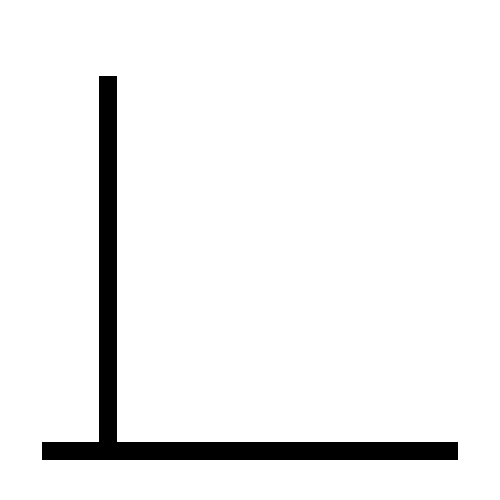
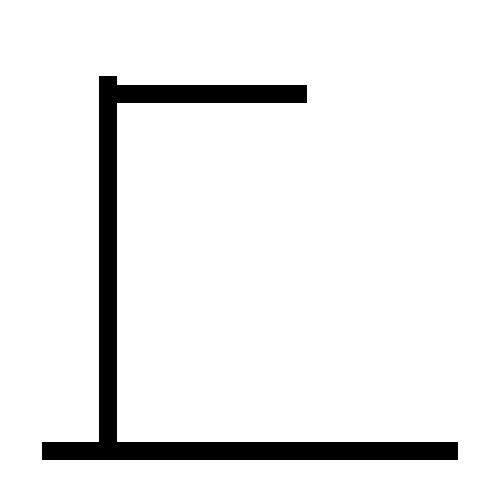
update ult

Changed region(s): [[0.21, 0.15, 0.63, 0.21]]

diff --git a/js/main.js b/js/main.js
@@ -1,6 +1,4 @@
-// crear array 
-// sacar num random y seleccionar palabra random
-// contar num de letras de la palabra y mostrar guiones
+//VARIABLES
 let arrayPalabras;
 let numeroRandom;
 let palabraSeleccionada;
@@ -9,17 +7,19 @@ let imagenesLetras = {}; //no es array, es objeto (para asociar directamente con
 let boton;
 let letraActual;
 let guion;
-let guiones =[];
+let guiones = [];
 let letraCorrecta;
+let errores = 0;
+document.getElementById('contadorErrores').innerHTML = "Nº de errores: 0";
 
+// LLAMADA A FUNCIONES
 crearArrayPalabras();
 seleccionarPalabraRandom(arrayPalabras);
 crearGuionesPalabra(palabraSeleccionada);
 imagenDibujo();
-
-// Llamar a la función para crear los botones al cargar la página
 crearBotones();
 
+//FUNCIONES
 function crearArrayPalabras() {
     arrayPalabras = ['globo', 'mapa', 'viaje', 'mar', 'tierra',
         'avion', 'pais', 'ruta', 'continente', 'oceano',
@@ -49,7 +49,7 @@ function crearGuionesPalabra(palabraSeleccionada) {
     //mostrar tantos guiones como letras
     for (let i = 0; i < longitudPalabra; i++) {
 
-         guion = document.createElement('p');
+        guion = document.createElement('p');
         guion.textContent = "_";
         guion.style.display = 'inline';
         guion.style.padding = '5px';
@@ -57,6 +57,7 @@ function crearGuionesPalabra(palabraSeleccionada) {
 
         // Añadir el elemento de imagen al contenedor en el DOM
         let contenedorGuion = document.getElementById("contenedor-guion");
+        // contenedorGuion.style.height = '120px'; 
         contenedorGuion.appendChild(guion);
         guiones.push(guion);
     }
@@ -65,13 +66,15 @@ function crearGuionesPalabra(palabraSeleccionada) {
 }
 
 function imagenDibujo() {
-    let imagenDibujo = document.createElement("img");
-    imagenDibujo.src = "/images/1.png"
+    // let imagenDibujo = document.createElement("img");
+    let imagenDibujo = document.querySelector("#contenedor-imagen-dibujo img");
+    imagenDibujo.src = `/images/${errores}.png`;
 
     let contenedorImagenDibujo = document.getElementById("contenedor-imagen-dibujo");
     contenedorImagenDibujo.appendChild(imagenDibujo);
 
 }
+
 
 
 function crearBotones() {
@@ -91,14 +94,24 @@ function crearBotones() {
         boton.style.width = "50px";
         boton.style.margin = "5px"; // Agregar margen entre botones
 
-
-      // función externa porque al estar dentro del bucle siempre recordará la última letra creada (Z)
-        boton.addEventListener("click", (function(letraClickeada, botonClickeado) {
-            return function() {
+        // función externa porque al estar dentro del bucle siempre recordará la última letra creada (Z)
+        //USO DE E.TARGET
+        boton.addEventListener("click", (function (letraClickeada, botonClickeado) {
+            return function () {
                 console.log("Letra seleccionada: " + letraClickeada);
                 comprobarLetraDentroPalabra(letraClickeada, botonClickeado);
+
             };
         })(letraActual, boton));
+
+        boton.addEventListener("click", (function (letraClickeada, botonClickeado) {
+            return function () {
+                console.log("Letra seleccionada: " + letraClickeada);
+                comprobarLetraDentroPalabra(letraClickeada, botonClickeado);
+                printErrores(letraCorrecta);
+            };
+        })(letraActual, boton));
+
 
         // Agregar el botón al contenedor
         contenedorBotones.appendChild(boton);
@@ -106,41 +119,82 @@ function crearBotones() {
 
 }
 
-function errores(){
-
-}
-// Funcion para comprobar que si el boton esta en verde que cuando vuelva a clicar que no pase nada
-// Comparar la letra seleccionada con todas las letras de la palabra y decir si esta o No 
 function comprobarLetraDentroPalabra(letraClickeada, botonClickeado) {
     let letras = palabraSeleccionada.split('');
     letraCorrecta = false;
     console.log(letras);
     console.log(letraClickeada.toLowerCase());
+    // letraClickeada.style.marginTop= "16px";
 
     for (let i = 0; i < letras.length; i++) {
         if (letraClickeada.toLowerCase() == letras[i]) {
             letraCorrecta = true;
-             //QUE NO SE COMA EL MARGIN CUANDO SE COMPLETE LA PALABRA
+            //HACER QUE NO SE COMA EL MARGIN CUANDO SE COMPLETE LA PALABRA
 
             guiones[i].style.fontSize = "50px";
             guiones[i].textContent = letraClickeada;
-            
+
         }
     }
     console.log(letraCorrecta);
     cambiarColorBotones(letraCorrecta, botonClickeado);
-   
+    
 }
 
 
 
-function cambiarColorBotones(letraCorrecta, botonClickeado){
+function cambiarColorBotones(letraCorrecta, botonClickeado) {
     botonClickeado.disabled = true;
-    if(letraCorrecta == true){
+    if (letraCorrecta == true) {
         botonClickeado.classList.remove("btn-light");
         botonClickeado.classList.add("btn-success");
-    } 
+    }
 }
+function printErrores(letraCorrecta) {
+    if (!letraCorrecta) {
+        errores++;
+
+        console.log("Nº Errores: " + errores);
+        document.getElementById('contadorErrores').innerHTML = "Nº de errores: " + errores;
+        if (errores >= 10) {
+            //PONER UN POP UP
+            document.getElementById('contadorErrores').innerHTML = "HAS PERDIDO";
+            popupFuncion('perder');
+            errores = 9;
+
+        }
+        imagenDibujo();
+    }
+}
+
+
+function popupFuncion(resultado) {
+    //juegoEnCurso = false;
+
+    const popup = document.getElementById('popup');
+    popup.style.display = 'block';
+
+    const popupContent = document.getElementById('popupContent');
+
+    if (resultado === 'ganar') {
+        popupContent.innerHTML = document.getElementById('ganar').innerHTML;
+    } else if (resultado === 'perder') {
+        popupContent.innerHTML = document.getElementById('perder').innerHTML;
+    }
+
+    const botones = popupContent.querySelectorAll('button');
+    botones.forEach((boton) => {
+        boton.addEventListener('click', (event) => {
+            const accion = event.target.getAttribute('data-action');
+            if (accion === 'volver') {
+                location.reload();
+            } else if (accion === 'reiniciar') {
+                location.reload();
+            }
+        });
+    });
+}
+
 // Si esta seleccionada sacar posición y ponerla (poner botón en verde )
 // si no esta seleccionada sumar un error y printear dibujo (poner boton en disabled)
 

diff --git a/juego.html b/juego.html
@@ -24,7 +24,9 @@
                         <div class="row">
                             <div class="col-md-6">
                                 <div id="dibujo">
-                                    <div id="contenedor-imagen-dibujo"></div>
+                                    <div id="contenedor-imagen-dibujo">
+                                        <img src="images/0.png">
+                                    </div>
                                 </div>
                             </div>
                             <div class="col-md-6 mb-5">
@@ -38,9 +40,33 @@
                                         <div id="contenedor-botones"></div>
                                     </div>
                                 </div>
+                                <div class="row mt-3">
+                                    <!-- <p>Nº de errores: </p> -->
+                                    <div id="contadorErrores" class="col-12">
+                                     
+                                    </div>
+                                </div>
                             </div>
                         </div>
                     </div>
+                    <div id="popup" class="popup">
+                        <div id="popupContent" class="popup-content">
+                          <!-- Contenido del pop-up -->
+                          <div id="ganar">
+                            <h1>¡Ganaste!</h1>
+                            <button data-action="volver">Volver a jugar</button><br><br>
+                            <!-- <button onclick="volverAlMapa()">Volver al mapa</button> -->
+                          </div>
+                  
+                          <div id="perder">
+                            <h1>¡Perdiste! <br> Te has quedado sin vidas :c</h1> <br>
+                            <button data-action="reiniciar">Reiniciar</button> <br><br>
+                            <!--<button onclick="volverAlMapa()">Volver al mapa</button>-->
+                          </div>
+                  
+                        </div>
+                      </div>
+                  
                     
                 </div>
             </div>

diff --git a/css/css.css b/css/css.css
@@ -7,12 +7,28 @@ body {
 
 #btn {
     font-size: 60px;
-
 }
 
-p {
-    display:inline;
-    padding:5px;
-    font-size:100px;
 
-}
+/*POP UP*/
+.popup {
+    display: none;
+    position: fixed;
+    top: 0;
+    left: 0;
+    width: 100%;
+    height: 100%;
+    background-color: rgba(0, 0, 0, 0.7);
+    background-size: cover;
+    z-index: 999;
+  }
+  
+  .popup-content {
+    position: absolute;
+    top: 50%;
+    left: 50%;
+    transform: translate(-50%, -50%);
+    background-color: #fff;
+    padding: 20px;
+    text-align: center;
+  }
